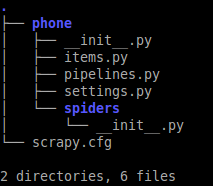
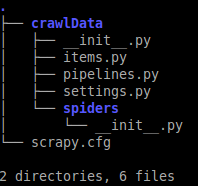
fix scrapy :)

diff --git a/crawlData/crawlData/crawlData/settings.py b/crawlData/crawlData/crawlData/settings.py
@@ -1,6 +1,6 @@
 # -*- coding: utf-8 -*-
 
-# Scrapy settings for phone project
+# Scrapy settings for crawlData project
 #
 # For simplicity, this file contains only settings considered important or
 # commonly used. You can find more settings consulting the documentation:
@@ -9,14 +9,14 @@
 #     http://scrapy.readthedocs.org/en/latest/topics/downloader-middleware.html
 #     http://scrapy.readthedocs.org/en/latest/topics/spider-middleware.html
 
-BOT_NAME = 'phone'
+BOT_NAME = 'crawlData'
 
-SPIDER_MODULES = ['phone.spiders']
-NEWSPIDER_MODULE = 'phone.spiders'
+SPIDER_MODULES = ['crawlData.spiders']
+NEWSPIDER_MODULE = 'crawlData.spiders'
 
 
 # Crawl responsibly by identifying yourself (and your website) on the user-agent
-#USER_AGENT = 'phone (+http://www.yourdomain.com)'
+#USER_AGENT = 'crawlData (+http://www.yourdomain.com)'
 
 # Configure maximum concurrent requests performed by Scrapy (default: 16)
 #CONCURRENT_REQUESTS=32
@@ -44,13 +44,13 @@ NEWSPIDER_MODULE = 'phone.spiders'
 # Enable or disable spider middlewares
 # See http://scrapy.readthedocs.org/en/latest/topics/spider-middleware.html
 #SPIDER_MIDDLEWARES = {
-#    'phone.middlewares.MyCustomSpiderMiddleware': 543,
+#    'crawlData.middlewares.MyCustomSpiderMiddleware': 543,
 #}
 
 # Enable or disable downloader middlewares
 # See http://scrapy.readthedocs.org/en/latest/topics/downloader-middleware.html
 #DOWNLOADER_MIDDLEWARES = {
-#    'phone.middlewares.MyCustomDownloaderMiddleware': 543,
+#    'crawlData.middlewares.MyCustomDownloaderMiddleware': 543,
 #}
 
 # Enable or disable extensions
@@ -62,7 +62,7 @@ NEWSPIDER_MODULE = 'phone.spiders'
 # Configure item pipelines
 # See http://scrapy.readthedocs.org/en/latest/topics/item-pipeline.html
 #ITEM_PIPELINES = {
-#    'phone.pipelines.SomePipeline': 300,
+#    'crawlData.pipelines.SomePipeline': 300,
 #}
 
 # Enable and configure the AutoThrottle extension (disabled by default)

diff --git a/crawlData/crawlData/crawlData/spiders/Phone.py b/crawlData/crawlData/crawlData/spiders/Phone.py
@@ -1,51 +1,3 @@
-# [Scrapy](http://doc.scrapy.org/en/0.20/index.html)
-
-Su dung scrapy de crawl du lieu tu website
-language: Python
-
-## [Setup](http://doc.scrapy.org/en/0.20/intro/install.html)
-
-### Yeu cau can co
-
-* Python 2.7 (Rieng ubuntu default da co nen ko can phai cai)
-* [LXML](http://lxml.de/)
-* [OpenSSL](https://pypi.python.org/pypi/pyOpenSSL) (Ubuntu default exist)
-* [PIP](http://www.pip-installer.org/en/latest/installing.html) or [easy_install](http://pypi.python.org/pypi/setuptools)
-
-### Cai dat (trong tut nay dung PIP)
-
-```shell
-pip install Scrapy
-```
-
-## [Huong dan su dung](http://doc.scrapy.org/en/0.20/intro/tutorial.html)
-
-### Tao project
-
-```shell
-# ten project: crawData
-scrapy startproject crawData
-```
-![Image demo](/images/scrapy struct.png)
-
-### Code
-
-* File `items.py` la file se chua cau truc cua du lieu sau khi crawler ve
-
-```python
-# -*- coding: utf-8 -*-
-
-from scrapy.item import Item, Field
-
-class Phone(Item):
-	name = Field()
-	price = Field()
-	config = Field()
-```
-
-* Tao file `Phone.py` trong thuc muc `crawlData/spiders`
-
-```python
 # -*- coding: utf-8 -*-
 
 # import 2 goi thu vien cua Scrapy
@@ -86,13 +38,3 @@ class PhoneSpider(Spider):
 			items.append(item)
 		print items
 		return items
-```
-
-### Run
-
-```shell
-# output ra file items.json
-scrapy crawl phone -o items.json -t json
-```
-
-# Auth: Tuyen-ng

diff --git a/crawlData/crawlData/crawlData/pipelines.py b/crawlData/crawlData/crawlData/pipelines.py
@@ -6,6 +6,6 @@
 # See: http://doc.scrapy.org/en/latest/topics/item-pipeline.html
 
 
-class PhonePipeline(object):
+class CrawldataPipeline(object):
     def process_item(self, item, spider):
         return item

diff --git a/crawlData/crawlData/crawlData/items.py b/crawlData/crawlData/crawlData/items.py
@@ -1,7 +1,8 @@
 # -*- coding: utf-8 -*-
+
 from scrapy.item import Item, Field
 
 class Phone(Item):
 	name = Field()
 	price = Field()
-	img = Field()
+	config = Field()
